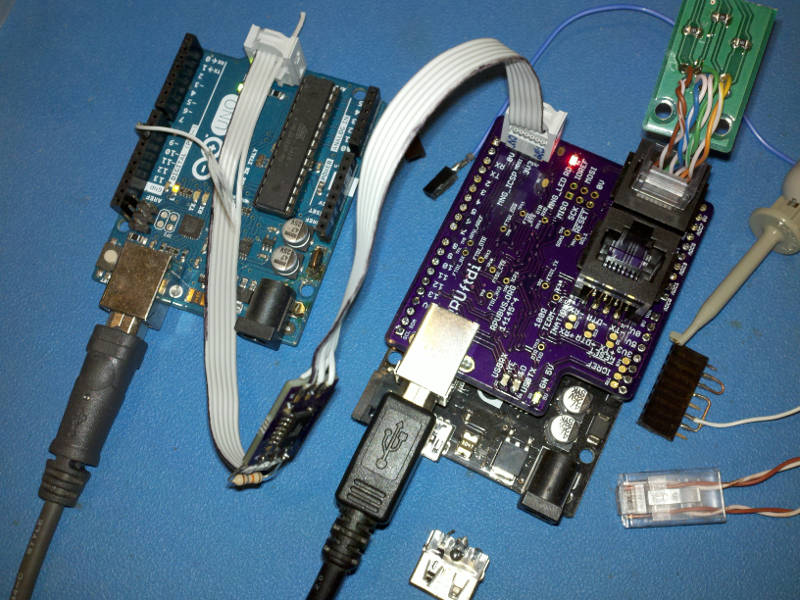
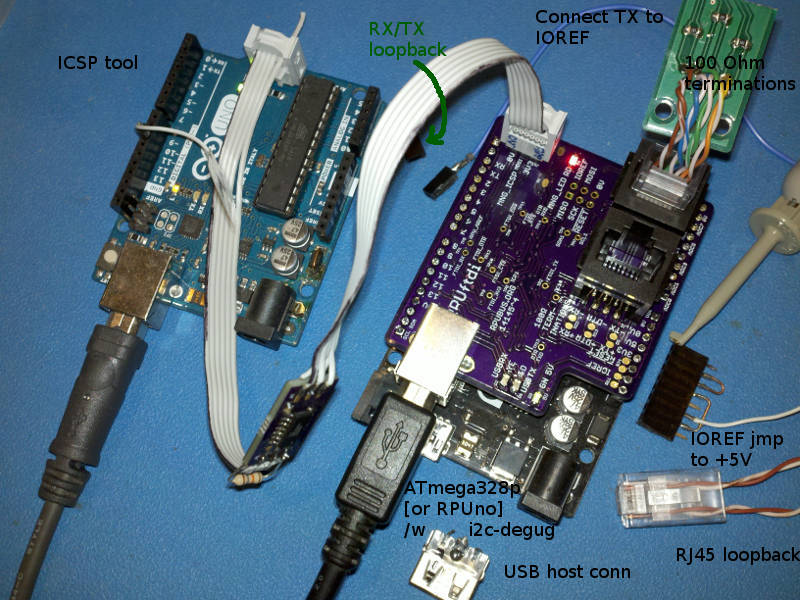
Hardware: use 12MHz crystal, populate r5,r13,r22

diff --git a/Hardware/Testing/readme.md b/Hardware/Testing/readme.md
@@ -49,8 +49,8 @@ Connect a 5V supply with CC mode set at 30mA to the USB input. Verify that the 5
 Connect a 5V supply with CC mode set at 30mA to the +5V (J7 pin 4) and  0V (J7 pin 2). Measure that the the MIC5205 linear regulator has 3.3V (J9 pin 2). Measure the input current of a blank MCU. Turn off power.
 
 ```
-{   "I_IN_BLANKMCU_mA":[4.5,],
-    "LDO_V":[3.3,] }
+{   "I_IN_BLANKMCU_mA":[4.5,4.5,4.3,4.4,],
+    "LDO_V":[3.3,3.3,3.28,3.28,] }
 ```
 
 
@@ -78,10 +78,12 @@ make fuse
 
 Note: There is not a bootloader, it just sets fuses.
 
-Disconnect the ICSP tool and measure the input current for 8Mhz internal at 3.3V.
+Disconnect the ICSP tool and measure the input current for 12Mhz crystal at 3.3V. It takes a long time to settel.
 
 ```
-{   "I_IN_MCU_8MHZ_INTRN_mA":[6.3,]}
+{   "I_IN_MCU_12MHZ_LP-CRYSTAL_mA":[7.3,7.3,7.2,7.1,7.1,7.2,7.1,]}
+# old values for referance only
+{   "I_IN_MCU_8MHZ_INTRN_mA":[6.3,6.2,6.0,6.1]}
 ```
 
 
@@ -101,9 +103,9 @@ The program loops through the test. It blinks the red LED to show which test num
 As the firmware loops the input current can be measured, it should have two distinct levels, one when the DTR pair is driven low and one when the DTR pair is not driven. The blinking LED leaves the DMM unsettled. Measure that FTDI_3V3 has 3.3V (TP3).
 
 ```
-{   "DTR_HLF_LD_mA":[36.8,34.1,],
-    "DTR_NO_LD_mA":[13.7,11.5,],
-    "FTDI_3V3_V":[3.275,] }
+{   "DTR_HLF_LD_mA":[36.8,34.1,35.3,34.9,35.0,],
+    "DTR_NO_LD_mA":[13.7,11.5,12.1,11.9,12.0,],
+    "FTDI_3V3_V":[3.275,3.305,3.311,3.265,] }
 ```
 
 
@@ -114,8 +116,8 @@ Plug a header (or jumper) onto the +5V pin so that IOREF is jumpered to +5V. Con
 Check  that the input current is cycling between 56mA and 33mA. At 56mA the TX driver is driving the TX pair with half load and DTR driver is driving the DTR pair with a half load, while ony the TX pair is driven at 33mA. 
 
 ```
-{   "DTR_TX_HLF_LD_mA":[59.4,56.5,],
-    "TX_HLF_LD_mA":[36.5,33.8,] }
+{   "DTR_TX_HLF_LD_mA":[59.4,56.5,57.7,57.2,57.1,],
+    "TX_HLF_LD_mA":[36.5,33.8,35.0,34.2,34.1] }
 ```
 
 
@@ -127,8 +129,8 @@ Same as Differential Bias test with a plug in a RJ45 loopback connector to conne
 NOTE: the RX Driver is directly connected by FTDI_TX to the FTDI chip pin, if the FTDI_TX node were to be pulled down to test the RX driver the FTDI chip would not stop trying to pull it up and be damaged.
 
 ```
-{   "DTR_HLF_LD_TX_FL_LD_mA":[76.5,73.8,],
-    "TX_FL_LD_mA":[53.0,51.0,] }
+{   "DTR_HLF_LD_TX_FL_LD_mA":[76.5,73.8,75.1,74.5,74.2,],
+    "TX_FL_LD_mA":[53.0,51.0,52.0,51.5,51.2,] }
 ```
 
 Turn off power. 
@@ -136,7 +138,7 @@ Turn off power.
 
 ## USB Power Up
 
-Plug a header (or jumper) onto the +5V pin so that IOREF is jumpered to +5V.
+Plug a header (or jumper) onto the +5V pin so that IOREF is jumpered to +5V. Plug in a jumper from TX to RX pins, which normaly go to the MCU board.
 
 On Linux use the dmesg command to see latest device mesages then plug the USB input to a powered hub that was previously connected and use dmesg to verify that the new USB port shows up. Then use picocom to connect to it.
 
@@ -153,15 +155,15 @@ rsutherland@conversion:~/RPUftdi/CheckDTR$ dmesg
 [20662.512328] usb 1-4.3: Detected FT-X
 [20662.512686] usb 1-4.3: FTDI USB Serial Device converter now attached to ttyUSB0
 ...
-rsutherland@conversion:~/Samba/RPUftdi/CheckDTR$ picocom -b 38400 /dev/ttyUSB0
+rsutherland@conversion:~/RPUftdi/CheckDTR$ picocom -b 38400 /dev/ttyUSB0
 ```
 
-Plug in a jumper from TX to RX pins, which go to the MCU board, and verify each character echo's. Turn off power (unplug USB).
+Verify each character echo's. Turn off power (unplug USB).
 
 
 ## Load i2c-debug into an MCU board
 
-Plug the DUT into a bare metal MCU board (e.g. RPUno). Connect USB from a host computer to the RPUftdi to power the bus manager. Connect the ICSP tool (J9).
+Plug the DUT into a ATmega328p MCU board (e.g. RPUno). Connect USB from a host computer to the RPUftdi to power the bus manager. Connect the ICSP tool (J9).
 
 Use the command line to select the Host2Remote source working directory. Run the makefile rule used to load Host2Remote firmware.
 
@@ -172,12 +174,18 @@ make isp
 
 Use picocom to connect, and verify that the red MNG_LED blinks. The DUT's red MNG_LED blinks when the UART pulls DTR active. Exit picocom with C-a, C-x. The MNG_LED should stop blinking after picocom exits.
 
-Now load the i2c-debug firmware onto the RPUno board through the DUT. Watch the yellow USBRX and red USBTX to verify they are working. Remove power by pulling the USB plug. 
+```
+picocom -b 38400 /dev/ttyUSB0
+```
+
+Now load the i2c-debug firmware onto the RPUno board through the DUT. Watch the yellow USBRX and red USBTX to verify they are working. 
 
 ```
 cd ~RPUno/i2c-debug
 make bootload
 ```
+
+Remove power by pulling the USB plug. 
 
 Note: The serial bootload has to travel out the FTDI_TX line and into the RX transceiver driver (which also enables it). The RX differential pair is thus driven and seen by all the differential receivers on the RX pair. The RX pair receiver drives the bare metal RX line when it is enabled by the bus manager. The direction data flows is changed but it works similarly from the bare metal TX line to the FTDI_RX line.
 

diff --git a/Hardware/README.md b/Hardware/README.md
@@ -17,7 +17,7 @@ Eagle Files, BOM, Status, and how to Test.
 * Power from USB (after soft start) is is given to +5V on the MCU node board.
 * FTDI UART allows a HOST to connect to RX and TX pairs.
 * FTDI UART nDTR and nRTS connect to BUS manager.
-* I2C Interface between BUS manager and MCU node.  
+* I2C Interface between BUS manager and MCU node.
 
 ## Uses
 
@@ -39,15 +39,15 @@ Eagle Files, BOM, Status, and how to Test.
 ![Status](./status_icon.png "RPUftdi Status")
 
 ```
-        ^4  Done: Design, Layout, BOM, Review*, Order Boards, Assembly, Testing,
-            WIP: Evaluation.
-            Todo:  
-            *during review the Design may change without changing the revision.
-            Connect bus manager ICP1 pin to a test point rather than RXD from DTR transceiver. 
-            Remove Vin connection and use +5V only.
+        ^4 Done: Design, Layout, BOM, Review*, Order Boards, Assembly, Testing,
+           WIP: Evaluation.
+           Todo:  
+           *during review the Design may change without changing the revision.
+           location: 2017-3-17 Test Bench /w an OSEPP Uno R3
 
         ^3 location: 2016-10-1 Test Bench /w an OSEPP Uno R3, used to connect by CAT5 to outside parts and to bench parts as needed.
                      2017-1-5 ICP1 hacked open.
+                     2017-3-17 scraped
 ```
 
 Debugging and fixing problems i.e. [Schooling](./Schooling/)
@@ -104,9 +104,15 @@ Import the [BOM](./Design/14145,BOM.csv) into LibreOffice Calc (or Excel) with s
 
 # How To Use
 
-As a shield RPUadpt plugs into an RPUno, Irrigate7 or PulseDAQ.
+RPUftdi is a shield that mounts on an RPUno or Irrigate7 as expected.
 
-![RPUftdi Mounting](./Evaluation/14226^3_OnIrrigate7.jpg "RPUftdi Mounting")
+![Irrigate7 Mount](./Evaluation/14145^3_OnIrrigate7.jpg "Irrigate7 Mount")
+
+Also mounts on an Uno with the extra pins dangling over (they are not used on the shield). 
+
+![Uno Mount](./Evaluation/14145^4_OnUno.jpg "Uno Mount")
+
+Typically I use the RPUftdi with an Uno clone since I don't have a solar panel next to my computer. The clone is powered from the USB connection on the RPUftdi board (do not connect the USB on the clone).
 
 The shield has a bus manager MCU that is used to control the RS-422 transceivers. I program it with an ISP tool using avrdude. The [Toolchain] is found on Ubuntu and Raspbian. For the ISP tool, I use an SPI level converter since the bus manager is at 3.3V and load an Uno board with the ArduinoISP sketch from Arduino.cc IDE (1.6.7+) example sketches. Firmware examples (most used for testing) are found in other folders of this repository, but the one I primarily use is [Host2Remote].
 

diff --git a/Hardware/Evaluation/readme.md b/Hardware/Evaluation/readme.md
@@ -7,9 +7,30 @@ This shows the setup and method used for evaluation of RPUftdi.
 
 # Table Of Contents:
 
+4. [^4 Bus Manager Running at 12MHz](#4-bus manager-running-at-12MHz)
 3. [^3 Proof of Concept](#3-proof-of-concept)
 2. [^2 I2C Slave Operation](#2-i2c-slave-operation)
 1. [^2 RS485 Full Duplex Loopback](#2-rs485-full-duplex-loopback)
+
+
+## ^4 Mounting
+
+Mounts on an RPUno or Irrigate7 as expected.
+
+![Irrigate7 Mount](./14145^3_OnIrrigate7.jpg "Irrigate7 Mount")
+
+Mounts on an Uno with the extra pins dangling over (they are not used on the shield). 
+
+![Uno Mount](./14145^4_OnUno.jpg "Uno Mount")
+
+Typically I use the RPUftdi with an Uno clone since I don't have a solar panel next to my computer. The clone is powered from the USB connection on the RPUftdi board (do not connect the USB on the clone).
+
+
+## ^4 Bus Manager Running at 12MHz
+
+Placed a 12MHz crystal on the revision 4 boards. The [Rate Calculator] shows zero framing error at 125k or 250k bits per second. Both non-standard rates that do not work with picocom 1.7. Since picocom does not handle half duplex control it really does not mater,  so I'm going to try 250k.
+
+[Rate Calculator]: http://wormfood.net/avrbaudcalc.php
 
 
 ## ^3 Proof of Concept
